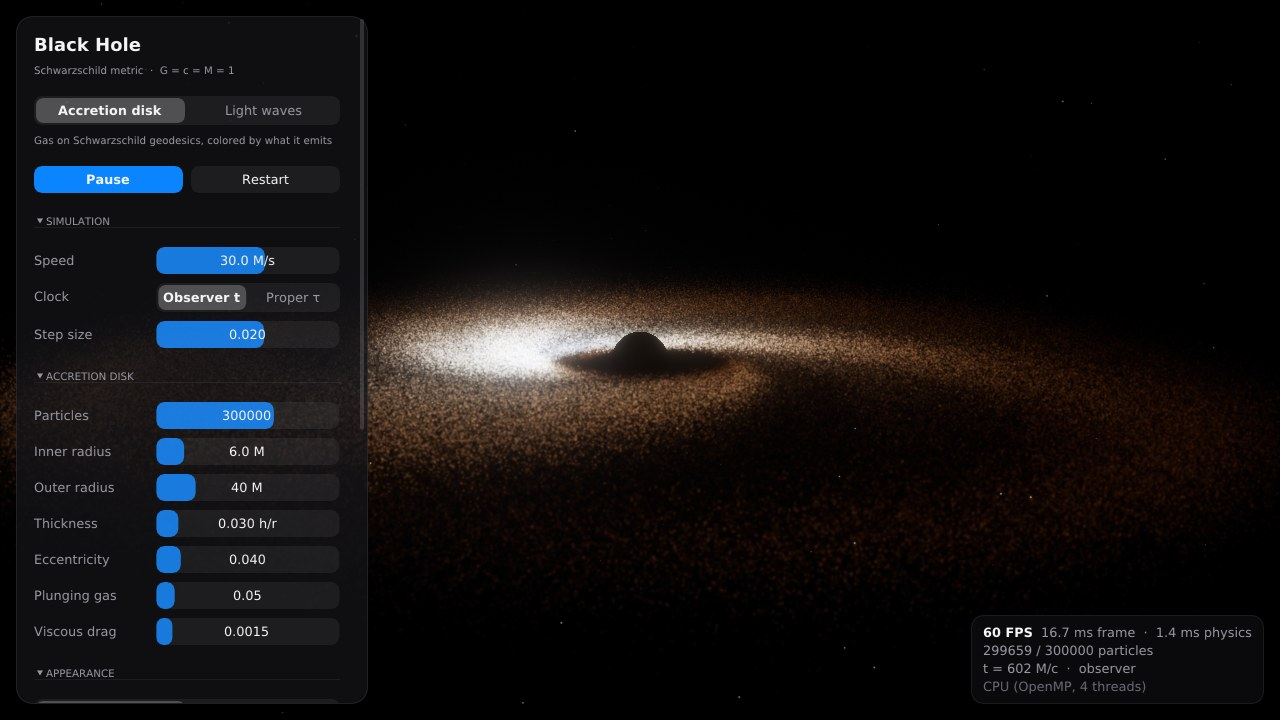
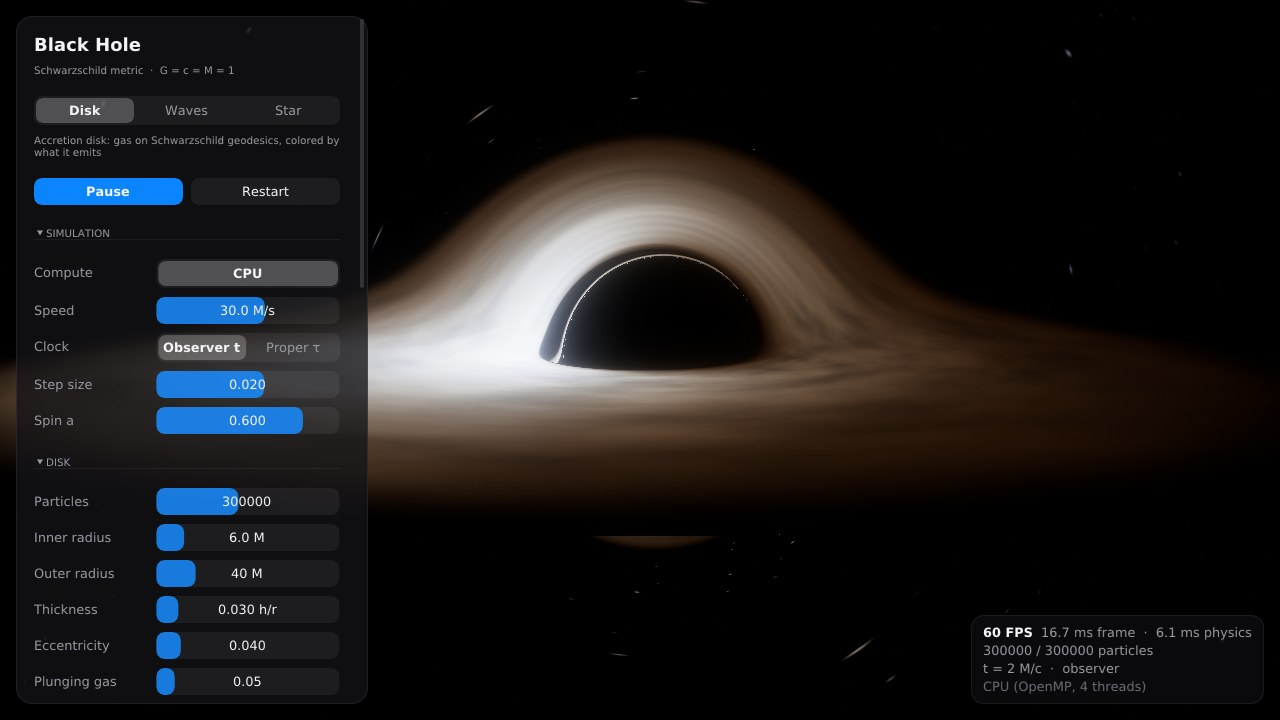
Polish: denser GPU defaults, OpenGL 4.5, docs
- With the CUDA backend every scenario starts with 2M particles and 16k
  photons per wave front
- Request an OpenGL 4.5 context (the particle volume clears textures with a
  4.4 function)
- README: infall frames, OpenGL requirement; docs/UI.md: current sections;
  refreshed UI screenshot

Claude-Session: https://claude.ai/code/session_01HXaWXFVtzd1ot5Tetsax1H

diff --git a/src/app/App.cpp b/src/app/App.cpp
@@ -40,7 +40,7 @@ bool App::init() {
   if (!glfwInit()) return false;
 
   glfwWindowHint(GLFW_CONTEXT_VERSION_MAJOR, 4);
-  glfwWindowHint(GLFW_CONTEXT_VERSION_MINOR, 3);
+  glfwWindowHint(GLFW_CONTEXT_VERSION_MINOR, 5);  // 4.4+: glClearTexImage for the particle volume
   glfwWindowHint(GLFW_OPENGL_PROFILE, GLFW_OPENGL_CORE_PROFILE);
   glfwWindowHint(GLFW_SCALE_TO_MONITOR, GLFW_TRUE);
   window_ = glfwCreateWindow(options_.width, options_.height, "Black Hole", nullptr, nullptr);
@@ -49,7 +49,7 @@ bool App::init() {
   glfwSwapInterval(options_.vsync && options_.screenshot.empty() ? 1 : 0);
 
   if (!gladLoadGL(reinterpret_cast<GLADloadfunc>(glfwGetProcAddress))) {
-    std::fprintf(stderr, "Failed to load OpenGL 4.3 functions\n");
+    std::fprintf(stderr, "Failed to load OpenGL 4.5 functions\n");
     return false;
   }
   std::printf("OpenGL %s | %s\n", reinterpret_cast<const char*>(glGetString(GL_VERSION)),
@@ -87,6 +87,17 @@ bool App::init() {
   for (size_t i = 0; i < sim_->scenarioCount(); ++i) appearances_.push_back(sim_->scenario(i).defaults().appearance);
   sim_->controls().spin = std::clamp(options_.spin, -0.998f, 0.998f);
 
+  // The GPU handles far more particles: start every scenario denser.
+  if (usingCuda_) {
+    const std::pair<const char*, int> gpuCounts[] = {{"Particles", 2000000}, {"Photons per front", 16384}};
+    for (size_t i = 0; i < sim_->scenarioCount(); ++i) {
+      for (ParamDesc& d : sim_->scenario(i).parameters()) {
+        for (const auto& [label, count] : gpuCounts) {
+          if (d.type == ParamDesc::Type::Int && std::string(d.label) == label) *static_cast<int*>(d.value) = count;
+        }
+      }
+    }
+  }
   selectScenario(static_cast<size_t>(std::clamp(options_.scenario, 0, static_cast<int>(sim_->scenarioCount()) - 1)));
   applyParamOverrides();
 

diff --git a/README.md b/README.md
@@ -100,7 +100,7 @@ d²x/dλ² = −M x / r³ · (κ + 3h²/r²),   h = |x × v|,  κ = 1 (газ) /
 ## Сборка
 
 Нужны CMake ≥ 3.21, git, компилятор C++20 (Visual Studio 2022/2026 / GCC 11+ / Clang 14+)
-и OpenGL 4.3. Зависимости (GLFW, GLM, Dear ImGui) скачиваются при конфигурации,
+и OpenGL 4.5. Зависимости (GLFW, GLM, Dear ImGui) скачиваются при конфигурации,
 glad и stb лежат в `third_party/`. CUDA необязательна: если CUDA Toolkit
 установлен, GPU-бэкенд собирается автоматически, иначе — только CPU.
 
@@ -183,6 +183,10 @@ blackhole.exe --lensing --spin 0.9 --record film --duration 60 --fps 60
 драйвера Windows (TDR). В конце в папке появляется `make_video.bat`: он собирает
 `blackhole.mp4` через ffmpeg (`winget install ffmpeg`), H.264; там же есть
 закомментированная строка для HEVC 10-bit (меньше файл, нет полос в тёмных градиентах).
+
+| Падение: у горизонта | Падение: внутри горизонта |
+|---|---|
+| ![infall near](docs/images/infall_near.jpg) | ![infall inside](docs/images/infall_inside.jpg) |
 
 Траектории камеры (`--path`): `flyby` — подлёт сверху, спуск к плоскости диска,
 финал у фотонного кольца; `orbit` — полный облёт (с `--view` задаёт высоту и

diff --git a/docs/UI.md b/docs/UI.md
@@ -25,6 +25,16 @@
 - Анимации (тумблеры, пилюля сегмента, заливка слайдера) — экспоненциальное
   сглаживание в `animate()` в `Widgets.cpp`.
 
+## Секции панели (сейчас)
+
+- **Шапка:** сценарий (Disk / Waves / Star), Play/Pause, Restart.
+- **Simulation:** Compute (CPU / GPU · CUDA), скорость, часы (Observer t / Proper τ), шаг, спин a.
+- **Параметры сценария:** строятся автоматически из `ParamDesc`.
+- **Appearance:** Physical / Data, цветовая карта и диапазон, размер точек, яркость.
+- **Ray tracing:** линзирование, «Light from» (Disk / Particles / Both), параметры диска и объёма, шаг лучей.
+- **Image, Camera, Guides** (свёрнуты по умолчанию), снизу — скриншот и подсказки по клавишам.
+- **HUD** справа внизу: FPS, время физики, число частиц, время симуляции, бэкенд.
+
 ## Шрифты
 
 `Theme.cpp` ищет шрифты по порядку: `assets/fonts/Inter-Regular.ttf` и
